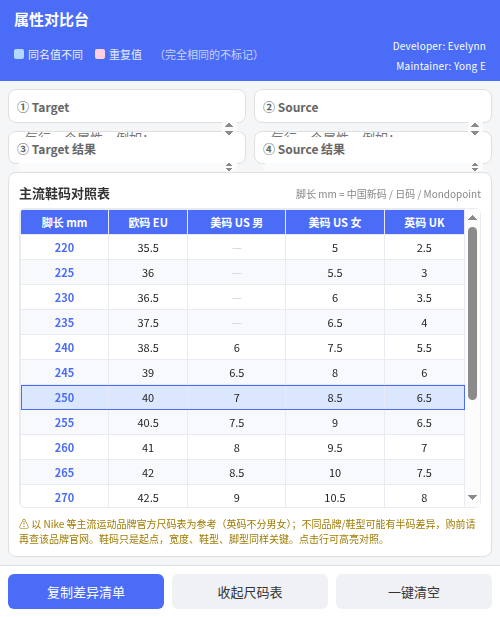
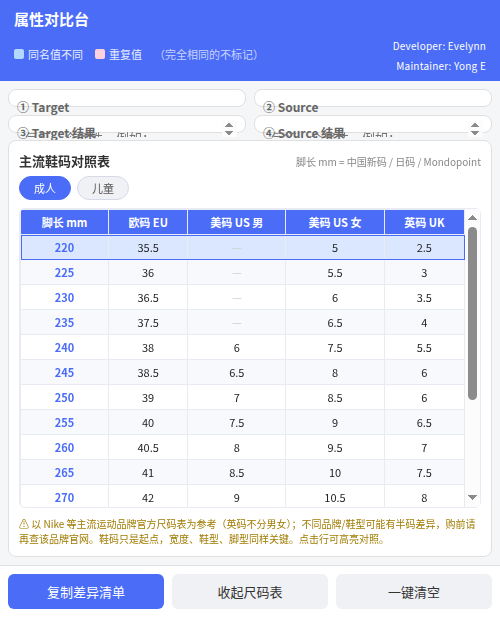
feat(size-chart): 新增可切换的成人/儿童鞋码对照表
重构尺码表渲染逻辑，新增儿童鞋码数据与切换标签功能；更新README文档说明，优化样式并添加预览图。

diff --git a/extension/sizes.js b/extension/sizes.js
@@ -38,3 +38,67 @@ const SIZE_CHART_COLUMNS = [
   { key: 'usW', label: '美码 US 女' },
   { key: 'uk',  label: '英码 UK' },
 ];
+
+// ===== 儿童鞋码对照表数据（婴儿~大童，基于脚长 mm） =====
+// 说明：
+//   - 以 Nike 官方儿童尺码表为参考（脚长 mm 近似对应 China-MM/CM 列，
+//     实际脚长通常比标签 CM 略短一点）。
+//   - 儿童 US/UK 均不分男女（unisex），故各只有一列（US 用 C=童码 / Y=大童 后缀）。
+//   - 儿童 EU/US/UK 与成人并非同一刻度（儿童鞋放量更大，同脚长的儿童码数值更小），
+//     因此独立成表，勿与成人表混用。
+//   - 大童 7Y（≈260mm）与成人男码 US 7（250mm）同号衔接（儿童鞋实际内长更长）。
+//   - 选码建议：实测脚长后加 5–10mm 成长空间再对照选码。
+//   - 不同品牌（Adidas、New Balance 等）仍可能有半码差异，购前请以目标品牌官网为准。
+//   - 维护方式：直接改下面的数组即可（与 SIZE_CHART 相同模式）。
+
+const SIZE_CHART_KIDS = [
+  // Baby & Toddler（C 码）
+  { mm: 70,  eu: 16,   us: '1C',    uk: 0.5 },
+  { mm: 75,  eu: 16.5, us: '1.5C',  uk: 1   },
+  { mm: 80,  eu: 17,   us: '2C',    uk: 1.5 },
+  { mm: 85,  eu: 18,   us: '2.5C',  uk: 2   },
+  { mm: 90,  eu: 18.5, us: '3C',    uk: 2.5 },
+  { mm: 95,  eu: 19,   us: '3.5C',  uk: 3   },
+  { mm: 100, eu: 19.5, us: '4C',    uk: 3.5 },
+  { mm: 105, eu: 20,   us: '4.5C',  uk: 4   },
+  { mm: 110, eu: 21,   us: '5C',    uk: 4.5 },
+  { mm: 115, eu: 21.5, us: '5.5C',  uk: 5   },
+  { mm: 120, eu: 22,   us: '6C',    uk: 5.5 },
+  { mm: 125, eu: 22.5, us: '6.5C',  uk: 6   },
+  { mm: 130, eu: 23.5, us: '7C',    uk: 6.5 },
+  { mm: 135, eu: 24,   us: '7.5C',  uk: 7   },
+  { mm: 140, eu: 25,   us: '8C',    uk: 7.5 },
+  { mm: 145, eu: 25.5, us: '8.5C',  uk: 8   },
+  { mm: 150, eu: 26,   us: '9C',    uk: 8.5 },
+  { mm: 155, eu: 26.5, us: '9.5C',  uk: 9   },
+  { mm: 160, eu: 27,   us: '10C',   uk: 9.5 },
+  { mm: 165, eu: 27.5, us: '10.5C', uk: 10  },
+  { mm: 170, eu: 28,   us: '11C',   uk: 10.5 },
+  { mm: 175, eu: 28.5, us: '11.5C', uk: 11  },
+  { mm: 180, eu: 29.5, us: '12C',   uk: 11.5 },
+  { mm: 185, eu: 30,   us: '12.5C', uk: 12  },
+  { mm: 190, eu: 31,   us: '13C',   uk: 12.5 },
+  { mm: 195, eu: 31.5, us: '13.5C', uk: 13  },
+  // Youth（Y 码，200mm 起进入 1Y）
+  { mm: 200, eu: 32,   us: '1Y',    uk: 13.5 },
+  { mm: 205, eu: 33,   us: '1.5Y',  uk: 1   },
+  { mm: 210, eu: 33.5, us: '2Y',    uk: 1.5 },
+  { mm: 215, eu: 34,   us: '2.5Y',  uk: 2   },
+  { mm: 220, eu: 35,   us: '3Y',    uk: 2.5 },
+  { mm: 225, eu: 35.5, us: '3.5Y',  uk: 3   },
+  { mm: 230, eu: 36,   us: '4Y',    uk: 3.5 },
+  { mm: 235, eu: 36.5, us: '4.5Y',  uk: 4   },
+  { mm: 240, eu: 37.5, us: '5Y',    uk: 4.5 },
+  { mm: 245, eu: 38,   us: '5.5Y',  uk: 5   },
+  { mm: 250, eu: 38.5, us: '6Y',    uk: 5.5 },
+  { mm: 255, eu: 39,   us: '6.5Y',  uk: 6   },
+  { mm: 260, eu: 40,   us: '7Y',    uk: 6   },
+];
+
+// 儿童表表头（与 SIZE_CHART_KIDS 字段一一对应）
+const SIZE_CHART_KIDS_COLUMNS = [
+  { key: 'mm', label: '脚长 mm' },
+  { key: 'eu', label: '欧码 EU' },
+  { key: 'us', label: '美码 US(童)' },
+  { key: 'uk', label: '英码 UK' },
+];

diff --git a/extension/sidepanel.js b/extension/sidepanel.js
@@ -220,16 +220,19 @@ window.addEventListener('resize', () => {
 });
 runCompare();
 
-// ===== ⑤ 主流鞋码对照表（数据在 sizes.js） =====
+// ===== ⑤ 主流鞋码对照表（数据在 sizes.js：成人 SIZE_CHART / 儿童 SIZE_CHART_KIDS） =====
 const sizeChartBtn = document.getElementById('sizeChartBtn');
 const sizeChart    = document.getElementById('sizeChart');
+const tabAdult     = document.getElementById('tabAdult');
+const tabKids      = document.getElementById('tabKids');
+const wrapAdult    = document.getElementById('wrapAdult');
+const wrapKids     = document.getElementById('wrapKids');
 
-// 用 sizes.js 的 SIZE_CHART / SIZE_CHART_COLUMNS 渲染表格
-function renderSizeChart() {
-  const table = document.getElementById('sizeTable');
-  const head = SIZE_CHART_COLUMNS.map((c) => `<th>${esc(c.label)}</th>`).join('');
-  const rows = SIZE_CHART.map((r) => {
-    const tds = SIZE_CHART_COLUMNS.map((c) => {
+// 通用表格渲染：chart=数据数组，columns=列定义
+function renderSizeChart(table, chart, columns) {
+  const head = columns.map((c) => `<th>${esc(c.label)}</th>`).join('');
+  const rows = chart.map((r) => {
+    const tds = columns.map((c) => {
       const v = r[c.key];
       if (v === null || v === undefined) return '<td class="na">—</td>';
       return c.key === 'mm' ? `<td class="mm">${v}</td>` : `<td>${v}</td>`;
@@ -247,10 +250,24 @@ function renderSizeChart() {
   });
 }
 
-// 展开/收起对照表（首次展开时才渲染）
+// 成人/儿童标签切换
+function switchSizeTab(showKids) {
+  tabAdult.classList.toggle('active', !showKids);
+  tabKids.classList.toggle('active', showKids);
+  wrapAdult.hidden = showKids;
+  wrapKids.hidden = !showKids;
+}
+
+// 展开/收起对照表（首次展开时才渲染两张表）
 sizeChartBtn.addEventListener('click', () => {
   const willOpen = sizeChart.hidden;
   sizeChart.hidden = !willOpen;
   sizeChartBtn.textContent = willOpen ? '收起尺码表' : '📏 尺码对照表';
-  if (willOpen) renderSizeChart();
+  if (willOpen) {
+    renderSizeChart(document.getElementById('sizeTable'), SIZE_CHART, SIZE_CHART_COLUMNS);
+    renderSizeChart(document.getElementById('sizeTableKids'), SIZE_CHART_KIDS, SIZE_CHART_KIDS_COLUMNS);
+  }
 });
+
+tabAdult.addEventListener('click', () => switchSizeTab(false));
+tabKids.addEventListener('click', () => switchSizeTab(true));

diff --git a/extension/sidepanel.css b/extension/sidepanel.css
@@ -277,21 +277,22 @@ footer button:hover {
   border-radius: 6px;
 }
 
-#sizeTable {
+/* 成人/儿童共用表格样式（两张表都带 .size-table 类，保持一致） */
+.size-table {
   width: 100%;
   border-collapse: collapse;
   font-size: 11px;
   white-space: nowrap;
 }
 
-#sizeTable th,
-#sizeTable td {
+.size-table th,
+.size-table td {
   padding: 4px 8px;
   text-align: center;
   border: 1px solid #e8ebf2;
 }
 
-#sizeTable th {
+.size-table th {
   position: sticky;
   top: 0;
   z-index: 1;
@@ -300,27 +301,27 @@ footer button:hover {
   font-weight: 600;
 }
 
-#sizeTable tbody tr:nth-child(even) {
+.size-table tbody tr:nth-child(even) {
   background: #f7f9fd;
 }
 
-#sizeTable tbody tr:hover {
+.size-table tbody tr:hover {
   background: #eef3ff;
   cursor: pointer;
 }
 
-#sizeTable tbody tr.selected {
+.size-table tbody tr.selected {
   background: #dbe7ff;
   outline: 1px solid #4a6cf7;
   outline-offset: -1px;
 }
 
-#sizeTable td.mm {
+.size-table td.mm {
   font-weight: 600;
   color: #4a6cf7;
 }
 
-#sizeTable td.na {
+.size-table td.na {
   color: #ccc;
 }
 
@@ -328,4 +329,39 @@ footer button:hover {
   margin: 8px 0 0;
   font-size: 10px;
   color: #a07b00;
+}
+
+/* 成人/儿童切换标签（胶囊样式） */
+.size-chart-tabs {
+  display: flex;
+  gap: 6px;
+  margin-bottom: 8px;
+}
+
+.size-chart-tabs .tab {
+  flex: 0 0 auto;
+  padding: 3px 14px;
+  border: 1px solid #d5dae6;
+  border-radius: 12px;
+  background: #f0f1f4;
+  color: #555;
+  font-size: 11px;
+  cursor: pointer;
+}
+
+.size-chart-tabs .tab:hover {
+  background: #e2e4ea;
+}
+
+.size-chart-tabs .tab.active {
+  background: #4a6cf7;
+  border-color: #4a6cf7;
+  color: #fff;
+}
+
+/* 儿童表上方说明行 */
+.size-chart-kids-note {
+  margin: 0 0 6px;
+  font-size: 10px;
+  color: #888;
 }

diff --git a/extension/sidepanel.html b/extension/sidepanel.html
@@ -53,14 +53,24 @@
     </section>
   </main>
 
-  <!-- ⑤ 主流鞋码对照表（页脚按钮展开/收起，默认收起） -->
+  <!-- ⑤ 主流鞋码对照表（页脚按钮展开/收起，成人/儿童切换，默认收起） -->
   <section id="sizeChart" class="size-chart" hidden>
     <div class="size-chart-head">
       <h2>主流鞋码对照表</h2>
       <span class="size-chart-note">脚长 mm = 中国新码 / 日码 / Mondopoint</span>
     </div>
-    <div class="table-wrap">
-      <table id="sizeTable"></table>
+    <div class="size-chart-tabs">
+      <button id="tabAdult" class="tab active" type="button">成人</button>
+      <button id="tabKids" class="tab" type="button">儿童</button>
+    </div>
+    <div class="table-wrap" id="wrapAdult">
+      <table id="sizeTable" class="size-table"></table>
+    </div>
+    <div id="wrapKids" hidden>
+      <p class="size-chart-kids-note">以 Nike 官方儿童尺码表为参考；儿童 US/UK 不分男女，儿童码与成人码非同一刻度，勿混用。大童 7Y（≈260mm）与成人男码 US 7 同号衔接。建议实测脚长加 5–10mm 成长空间再选码。</p>
+      <div class="table-wrap">
+        <table id="sizeTableKids" class="size-table"></table>
+      </div>
     </div>
     <p class="size-chart-tip">⚠ 以 Nike 等主流运动品牌官方尺码表为参考（英码不分男女）；不同品牌/鞋型可能有半码差异，购前请再查该品牌官网。鞋码只是起点，宽度、鞋型、脚型同样关键。点击行可高亮对照。</p>
   </section>

diff --git a/README.md b/README.md
@@ -24,10 +24,14 @@
 - 结果框自动收集命中条目并带规则徽章；点击条目跳转到输入框对应行并闪烁
 - **复制差异清单**：一键复制所有「同名值不同」为 `属性名 / Target值 / Source值` 三列
   （Tab 分隔，可直接粘贴进 Excel/表格）
-- **主流鞋码对照表**：页脚「尺码对照表」按钮展开换算参考
-  （脚长mm / 欧码 / 美码男 / 美码女 / 英码UK，英码不分男女合为一列；
-  以 Nike 等主流运动品牌官方尺码表为参考：美码女 ≈ 美码男 + 1.5；
-  点击行可高亮对照；数据独立维护在 `extension/sizes.js`）
+- **主流鞋码对照表**：页脚「尺码对照表」按钮展开，**成人/儿童切换**（胶囊标签）
+  - 成人表（脚长mm / 欧码 / 美码男 / 美码女 / 英码UK，英码不分男女合为一列；
+    以 Nike 等主流运动品牌官方尺码表为参考：美码女 ≈ 美码男 + 1.5）
+  - 儿童表（脚长mm / 欧码 / 美码US(童) / 英码UK，US/UK 不分男女；
+    以 Nike 官方儿童尺码表为参考：婴儿~大童 70–260mm，含半码，1Y 从 200mm 起；
+    儿童码与成人码非同一刻度，勿混用；大童 7Y（≈260mm）与成人男码 US 7 同号衔接；
+    建议实测脚长加 5–10mm 成长空间再选码）
+  - 点击行可高亮对照；数据独立维护在 `extension/sizes.js`
 - 一键清空；不持久化保存（关闭即清空）
 
 ## 安装（开发者模式加载）
